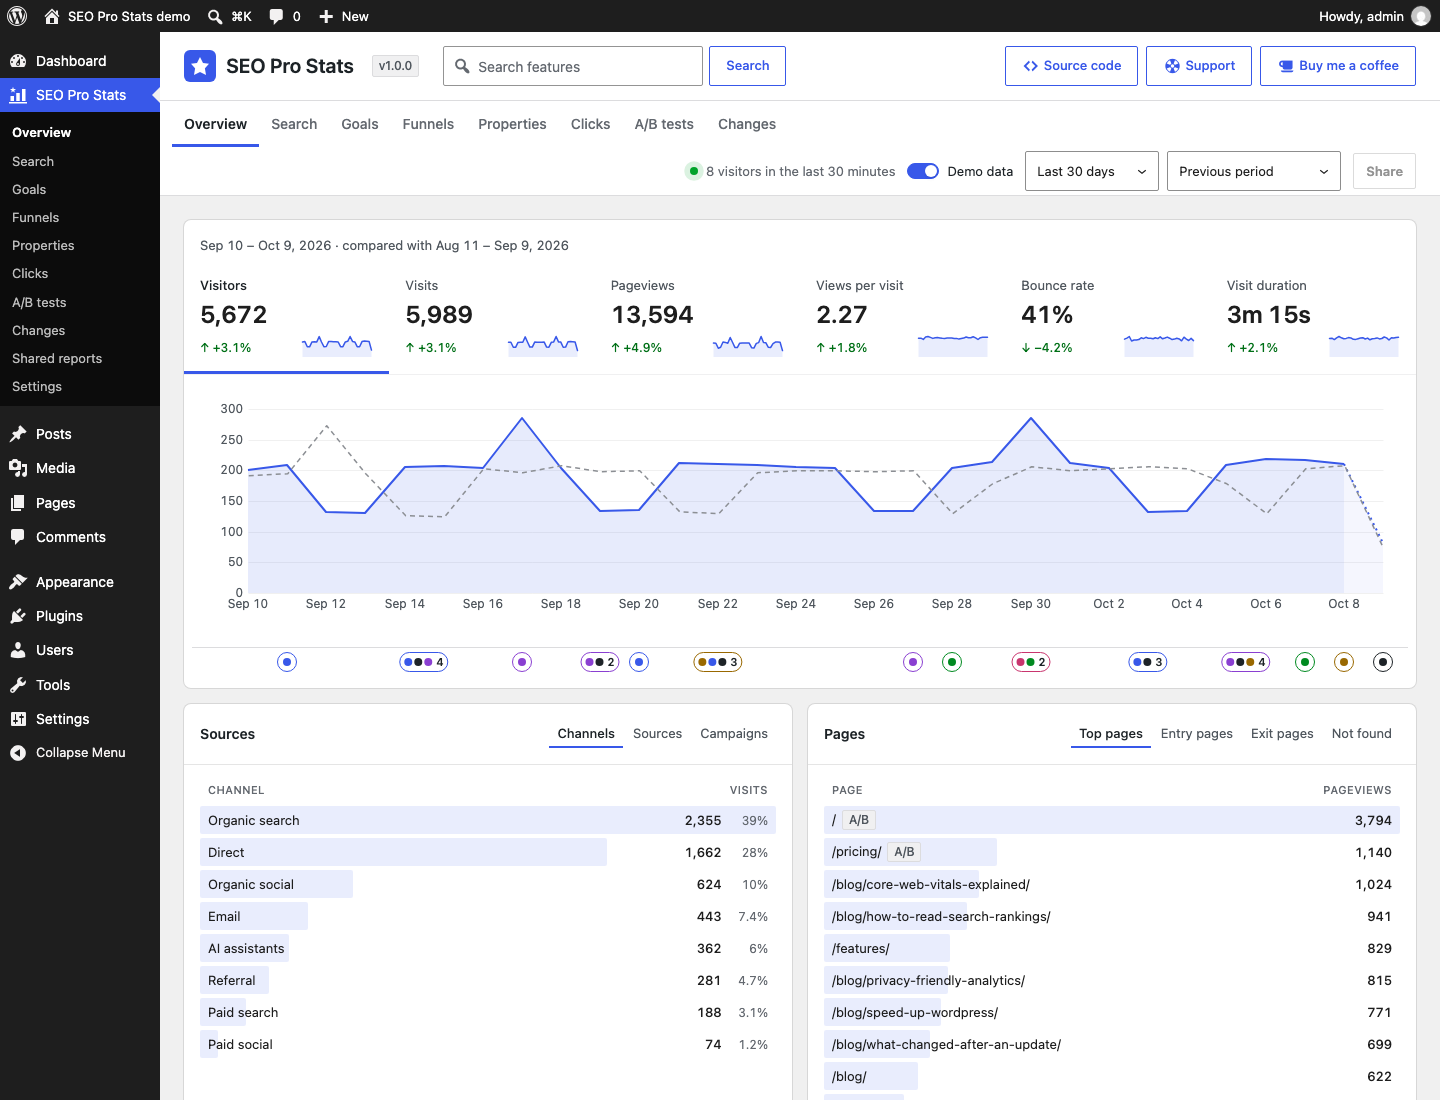
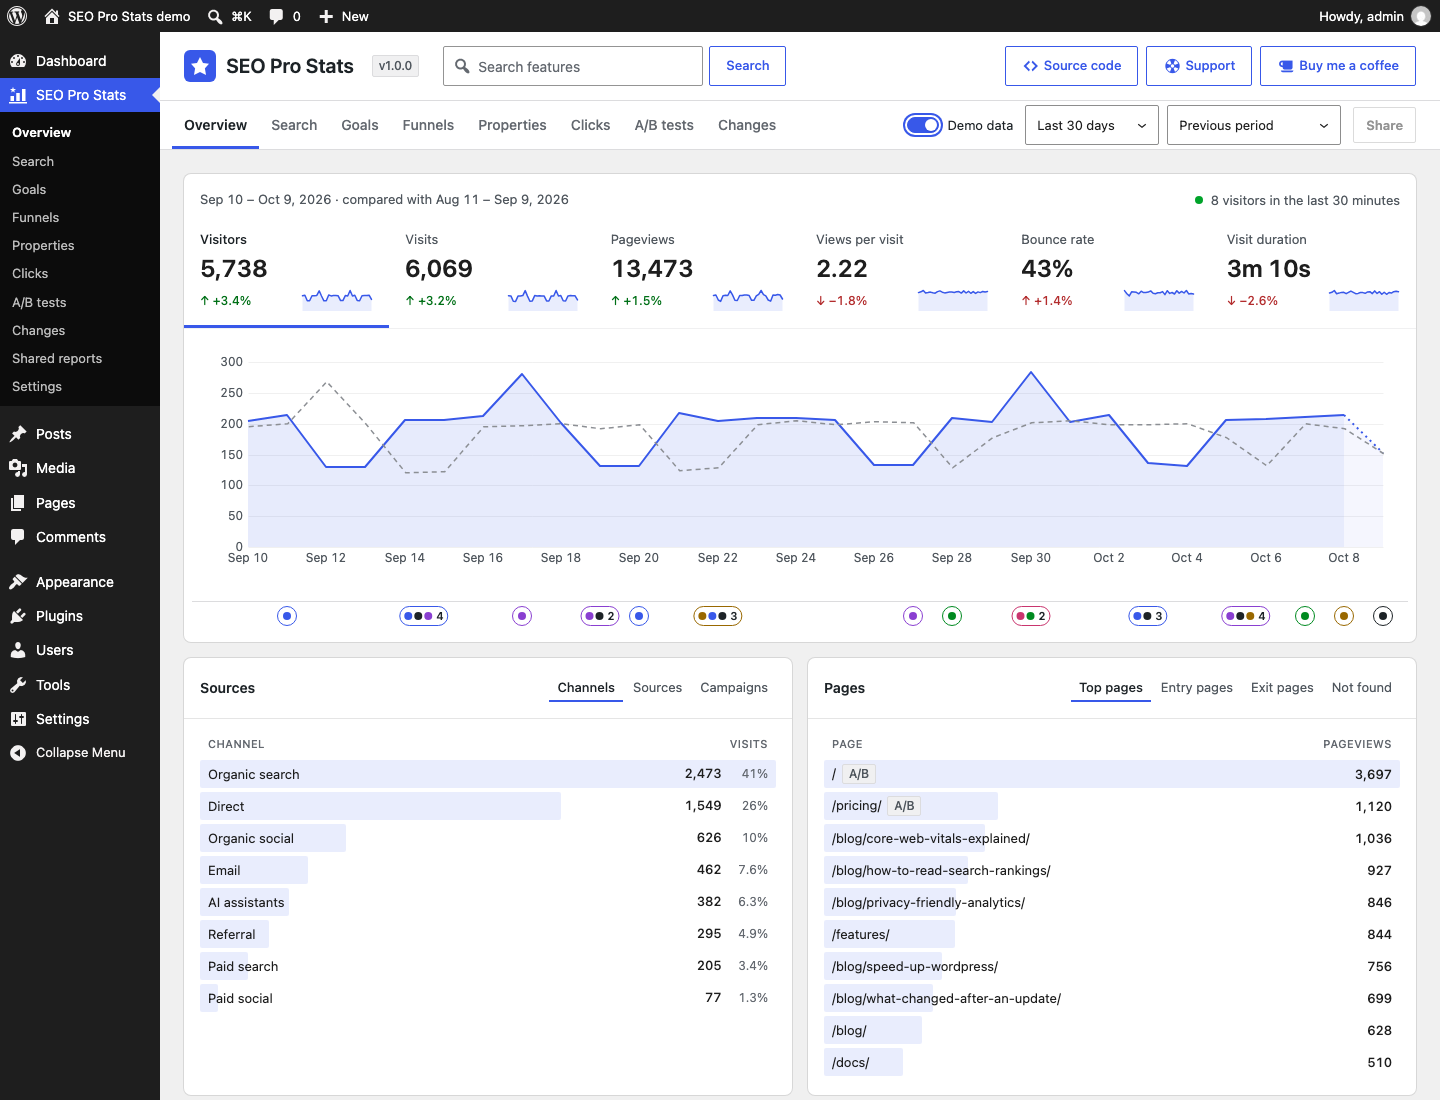
docs: public launch — badges in three rows, current screenshots and a shared report, LAUNCH.md
* docs: public launch — LAUNCH.md state, AGENTS.md rules, Scorecard and release badges

* docs: README badges in three rows (status, requirements and size, languages), as the starter writes them

* docs: screenshots of the current screens, and a sixth of a shared report

diff --git a/README.md b/README.md
@@ -3,25 +3,19 @@
 # SEO Pro Stats
 
 <!-- aidevops:badges:start -->
-<!-- managed by aidevops badges; edit the template, not this block -->
-<!-- Build & Quality Status -->
-[![GitHub Actions](https://github.com/wpallstars/seoprostats/actions/workflows/ci.yml/badge.svg?branch=main)](https://github.com/wpallstars/seoprostats/actions/workflows/ci.yml)
+<!-- On GitHub only: the Read Me tab skips this block. scripts/rename-plugin.sh rewrites it. -->
+[![CI](https://github.com/wpallstars/seoprostats/actions/workflows/ci.yml/badge.svg?branch=main)](https://github.com/wpallstars/seoprostats/actions/workflows/ci.yml)
+[![OpenSSF Scorecard](https://api.scorecard.dev/projects/github.com/wpallstars/seoprostats/badge)](https://scorecard.dev/viewer/?uri=github.com/wpallstars/seoprostats)
+[![License: GPL v3 or later](https://img.shields.io/badge/License-GPL%20v3%20or%20later-blue.svg)](LICENSE)
+[![Latest release](https://img.shields.io/github/v/release/wpallstars/seoprostats)](https://github.com/wpallstars/seoprostats/releases)
 
-<!-- License & Legal -->
-[![License](https://img.shields.io/badge/license-GPL--3.0--or--later-blue.svg)](https://github.com/wpallstars/seoprostats/blob/main/LICENSE)
-
-<!-- WordPress Plugin -->
-[![Requires WordPress](https://img.shields.io/badge/WordPress-6.2%2B-21759B.svg?logo=wordpress)](https://github.com/wpallstars/seoprostats/blob/main/readme.txt)
-[![Tested up to](https://img.shields.io/badge/tested%20up%20to-7.1-21759B.svg?logo=wordpress)](https://github.com/wpallstars/seoprostats/blob/main/readme.txt)
-[![Requires PHP](https://img.shields.io/badge/PHP-7.4%2B-777BB4.svg?logo=php)](https://github.com/wpallstars/seoprostats/blob/main/readme.txt)
-
-<!-- Repository Metrics -->
+[![Requires WordPress](https://img.shields.io/badge/WordPress-6.2%2B-21759B.svg?logo=wordpress)](readme.txt)
+[![Tested up to](https://img.shields.io/badge/tested%20up%20to-7.1-21759B.svg?logo=wordpress)](readme.txt)
+[![Requires PHP](https://img.shields.io/badge/PHP-7.4%2B-777BB4.svg?logo=php)](readme.txt)
 [![Lines of code](docs/metrics/badges/loc.svg)](docs/metrics/repo-metrics.md)
-[![Languages by lines of code](docs/metrics/badges/languages.svg)](docs/metrics/repo-metrics.md)
 [![Dependencies](docs/metrics/badges/dependencies.svg)](docs/metrics/repo-metrics.md)
 
-<!-- Project Links -->
-[![GitHub repository](https://img.shields.io/badge/github-repository-181717.svg?logo=github)](https://github.com/wpallstars/seoprostats)
+[![Languages by lines of code](docs/metrics/badges/languages.svg)](docs/metrics/repo-metrics.md)
 <!-- aidevops:badges:end -->
 
 **Actionable analytics for WordPress. Connect your content to the data that shows you how to grow.**
@@ -37,7 +31,7 @@ Version: 1.0.0
 <!-- github-only:start -->
 ## Screenshots
 
-**The Overview**: visits against the previous period, with the site's changes marked under the chart.
+**The Overview**: visits against the previous period, the visitors on the site now, and the site's changes marked under the chart.
 
 ![The SEO Pro Stats Overview with its chart and changes lane](.wordpress-org/screenshot-1.png)
 
@@ -53,9 +47,13 @@ Version: 1.0.0
 
 ![The Changes section](.wordpress-org/screenshot-4.png)
 
-**Goals**: conversions, conversion rate and revenue per currency, against the previous period.
+**Goals**: conversions, conversion rate and revenue per currency, against the previous period, with what the figures say and how to improve them.
 
 ![The Goals section](.wordpress-org/screenshot-5.png)
+
+**A shared report**: the sections you chose, read-only for a client or colleague, without wp-admin, ready to print or save as PDF.
+
+![A shared report's Overview](.wordpress-org/screenshot-6.png)
 <!-- github-only:end -->
 
 ## Why SEO Pro Stats
@@ -392,7 +390,7 @@ The REST API (`/wp-json/seoprostats/v1`) and WP-CLI give the same numbers as the
 - Daily summaries: an hour after each day ends, the day's numbers are summarised, so long ranges (this year, 12 months, all time) read a few rows a day and stay fast. Visits and pageviews are kept 75 months, events 120 months, clicks 3 months and imported search data by page and query 25 months, then deleted; the summaries and search totals are kept. Change the months under Settings → Data, or with the `seoprostats_retention` filter (`visits`, `events`, `clicks`, `search`; 0 keeps forever; clicks never outlast their visits).
 
 ```sh
-curl -u "admin:APPLICATION PASSWORD" "https://example.com/wp-json/seoprostats/v1/breakdown?dimension=source&range=30d"
+curl -u "$WP_USER:$WP_APPLICATION_PASSWORD" "https://example.com/wp-json/seoprostats/v1/breakdown?dimension=source&range=30d"
 ```
 
 ### Tracking
@@ -468,6 +466,10 @@ Read a setting with `SEOProStats_Settings::get( 'key' )`.
 Deleting the plugin removes its settings, its connections and their encrypted keys, its statistics (with the days imported from other statistics plugins), imported search data and demo data, its list of A/B tests (the test blocks stay in posts), its cached data, its notes on shops' orders (checkout visit, recorded), each person's Live or Demo choice, who hid lines of the Plugins screen notice about replaced plugins, and the cached GitHub releases.
 
 ## Changelog
+
+### Unreleased
+
+- Changed: the source code is public on GitHub. The screenshots show the current screens (the live count on the Overview, Info & ideas), and a sixth shows a shared report. Nothing changes in the plugin.
 
 ### 1.0.0
 

diff --git a/LAUNCH.md b/LAUNCH.md
@@ -1,24 +1,38 @@
 # SEO Pro Stats — launch state
 
-In development, version 0.1.0, with no release yet. The repository is
-private; making it public needs the owner's say.
+Public since 9 October 2026, at version 1.0.0 (the first GitHub release).
 
-While it is private (`DEVELOPMENT.md` → While private):
+Before it went public, the whole Git history was scanned for secrets
+(`DEVELOPMENT.md` → Secrets in history), and issues, pull requests, commit
+messages and the release were checked for private names and paths. The
+scan's only findings, four `curl-auth-user` matches in `README.md` (commits
+`ff0bfd0`, `c2f2253`, `065960b` and `560c58c`), are the REST API example's
+placeholder `admin:APPLICATION PASSWORD`, not a password; the example now
+uses environment variables. Expect those four in later history scans.
 
-- GitHub Actions do not start on this repository (account billing), so the
-  checks run locally before each merge (`AGENTS.md` → Rules for any
-  change). Qlty is out of minutes; Socket and CodeRabbit run.
-- No branch protection, rulesets, CodeQL, secret scanning or Scorecard:
-  they need a public repository or a paid GitHub plan.
-- Codacy, CodeFactor and SonarCloud are not connected; they are set up at
-  public launch.
-- Repository metrics (`docs/metrics/`) are not refreshed by Actions;
-  regenerate them locally when they matter. `SYNC_PAT` is needed only once
-  `main` is protected (`DEVELOPMENT.md` → Services setup, step 4).
+On now:
 
-At public launch: scan the whole Git history first (`DEVELOPMENT.md` →
-Secrets in history), then run `DEVELOPMENT.md` → At public launch, and
-update this file with what is on.
+- GitHub Actions run (CI, Release, Scorecard, Starter sync, Repository
+  metrics). CI checks are required on `main` by a branch ruleset (Lint,
+  Release build, both Smoke tests), without "branch must be up to date".
+- CodeQL default setup (JavaScript and TypeScript, GitHub Actions; it has
+  no PHP support), secret scanning with push protection, Dependabot alerts
+  and security updates, private vulnerability reporting (`SECURITY.md`),
+  and OpenSSF Scorecard (badge in `README.md`).
+- Socket and CodeRabbit review pull requests.
+
+Not yet (owner's accounts, `DEVELOPMENT.md` → Services setup):
+
+- SonarCloud (`SONAR_TOKEN`), Codacy and CodeFactor are not connected, so
+  their badges are left out of `README.md`.
+- `SYNC_PAT` is not set, so Repository metrics cannot commit to the
+  protected `main`; regenerate `docs/metrics/` locally until it is.
+- The rest of `DEVELOPMENT.md` → At public launch: fix the reviewers'
+  findings by area, then raise the PHPStan level.
+
+Version 1.0.0 was published by hand while Actions could not run, so its
+zip has no signed build provenance; releases from 1.0.1 on get it from the
+Release workflow (`gh attestation verify`).
 
 WordPress.org: planned (`readme.txt` → FAQ: versions reach WordPress.org 30
 days after GitHub). Not submitted; follow `RELEASING.md` → WordPress.org

diff --git a/AGENTS.md b/AGENTS.md
@@ -45,11 +45,10 @@ Development: `DEVELOPMENT.md`. Releases: `RELEASING.md`; launch state:
 - **Portable underneath.** The API contract (`docs/api/openapi.yaml`) and
   `packages/core`, `packages/tracker` and `packages/charts` stay free of
   WordPress and React so later apps reuse them.
-- **Write as if public.** The repository is private until its public
-  launch (`LAUNCH.md`), and its whole history is published then. Never name
-  private repositories, their issues, private sites, local paths, or other
-  analytics products used as research in it (commits, docs, comments or
-  examples). Describe features in our own words.
+- **Everything here is public** (`LAUNCH.md`). Never name private
+  repositories, their issues, private sites, local paths, or other
+  analytics products used as research in it (commits, docs, issues,
+  comments or examples). Describe features in our own words.
 - **Other plugins' data is read only.** The one exception (the owner's, to
   `STANDARDS.md` → Structure): Settings → Import → Remove leftover data
   (`SEOProStats_Migrate::cleanup()`) deletes another statistics plugin's
@@ -58,13 +57,6 @@ Development: `DEVELOPMENT.md`. Releases: `RELEASING.md`; launch state:
 - Keep the credits in `README.md` and `readme.txt`: **Built with AI** to
   aidevops (<https://aidevops.sh>) and the "Made from" line crediting the
   starter (`STANDARDS.md` → Structure).
-- **Checks run locally for now (owner's decision).** GitHub Actions do not
-  start on this repository while it is private ("recent account payments
-  have failed or your spending limit needs to be increased"); that failure
-  is billing, not code, so do not fix code or wait for it. Before merging,
-  run `composer install && scripts/lint.sh` and `scripts/smoke-test.sh`
-  (Docker) in the worktree and put the results in the PR. Remove this rule
-  when Actions run again.
 
 ## Test sites
 
